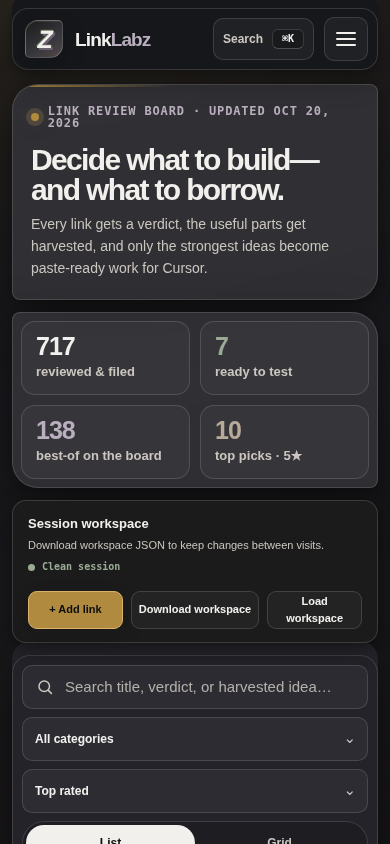
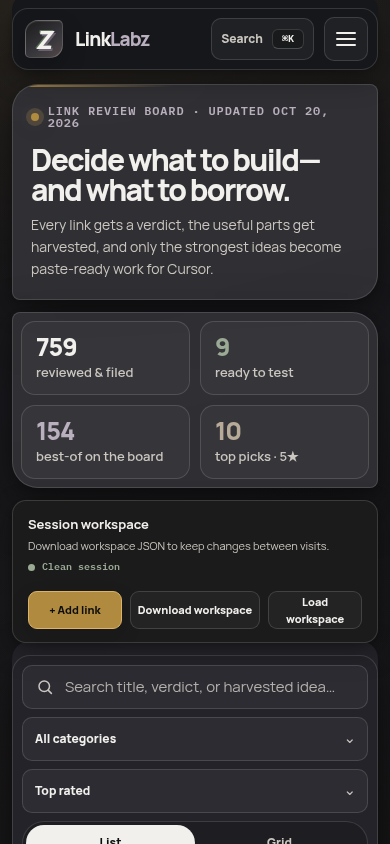
Round 10: refresh board screenshots + README ?v= stamp
Screenshots re-captured from the live deck after the round-10 publish (154 cards, 759 reviewed & filed).

diff --git a/README.md b/README.md
@@ -9,7 +9,7 @@
 
 **Live preview:** https://agentzlab.github.io/LinkLabz/
 
-![LinkLabz — the review board, dark mode](assets/screenshot.png?v=202610211436)
+![LinkLabz — the review board, dark mode](assets/screenshot.png?v=202610251659)
 
 ## What's inside
 
@@ -26,11 +26,11 @@ LinkLabz is Jon's visual link review board — a single-page app for working thr
 
 ## Screenshots
 
-![Raindrop keeper deck](assets/screenshot-raindrop.png?v=202610211436)
+![Raindrop keeper deck](assets/screenshot-raindrop.png?v=202610251659)
 
 *The Raindrop keeper deck — graded cards; click through for the full verdict and harvest notes.*
 
-![LinkLabz at phone width](assets/screenshot-mobile.png?v=202610211436)
+![LinkLabz at phone width](assets/screenshot-mobile.png?v=202610251659)
 
 *The board at phone width — the toolbar un-sticks on small screens so nothing jams.*
 
